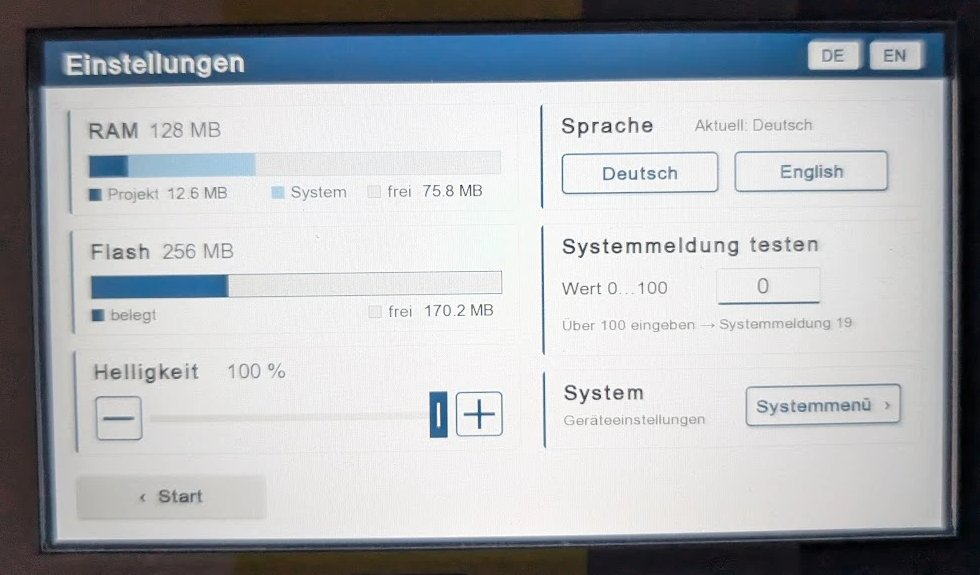
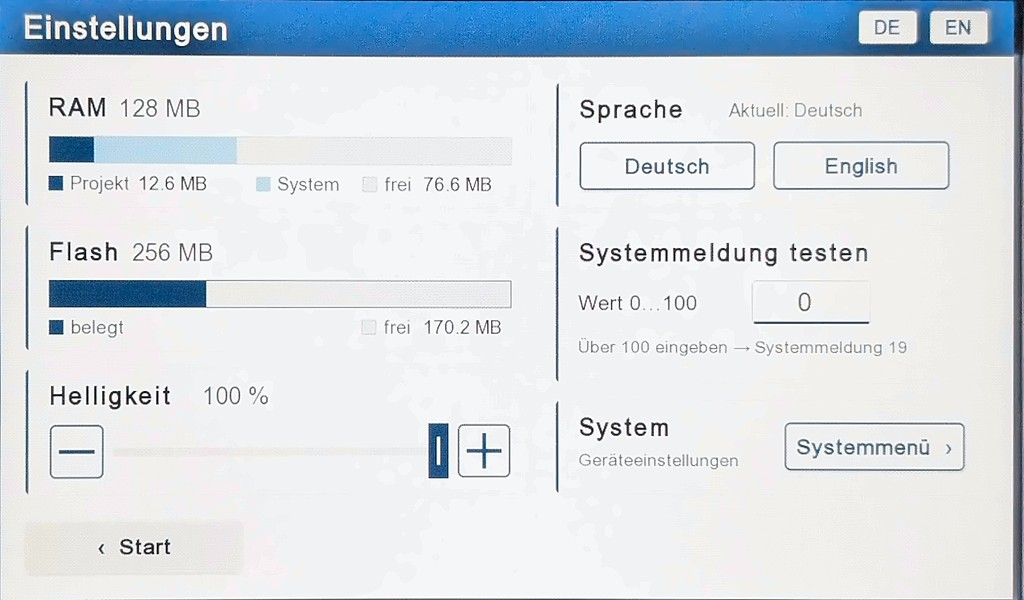
README: Gerätefotos entzerrt, Startseite ergänzt
- Neues, schärferes Foto der Einstellungsseite: Perspektive entzerrt, exakt auf den Bildschirm (1024 × 600)
  zugeschnitten, Weißabgleich auf Black Haze, leicht geschärft
- Foto der Startseite auf dem M2070HE neu, beide nebeneinander

diff --git a/README.md b/README.md
@@ -13,9 +13,11 @@ Deutsch/Englisch. Projekt öffnen, eigene Bilder ab Nummer 100 anlegen, loslegen
 | ------------------------------------------------------------------- | ------------------------------------------------------------------ |
 | ![Einstellungsseite auf Englisch](docs/bilder/einstellungen_en.png) | ![Zifferntastatur im spstiger-Design](docs/bilder/tastatur_de.png) |
 
-So sieht es auf einem echten M2070HE aus, mit RAM- und Flash-Werten des Geräts:
+So sieht es auf einem echten M2070HE aus, mit RAM- und Flash-Werten des Geräts (Fotos entzerrt):
 
-![Einstellungsseite auf dem M2070HE](docs/bilder/geraet_einstellungen.jpg)
+| Startseite | Einstellungen |
+| --- | --- |
+| ![Startseite auf dem M2070HE](docs/bilder/geraet_start.jpg) | ![Einstellungsseite auf dem M2070HE](docs/bilder/geraet_einstellungen.jpg) |
 
 ## Projekte
 
